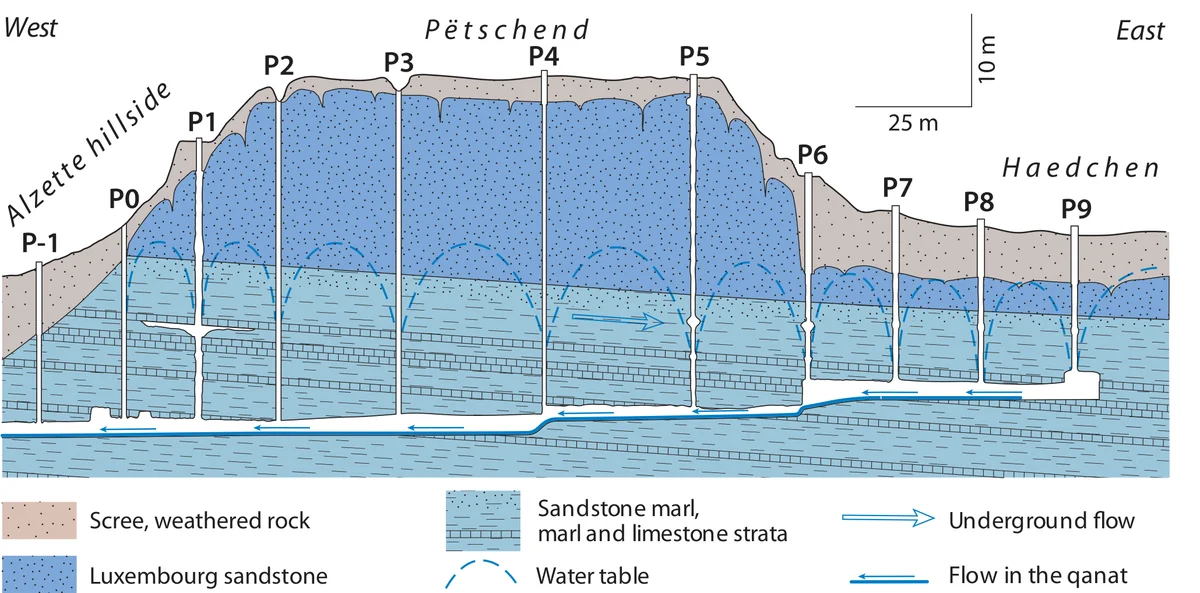
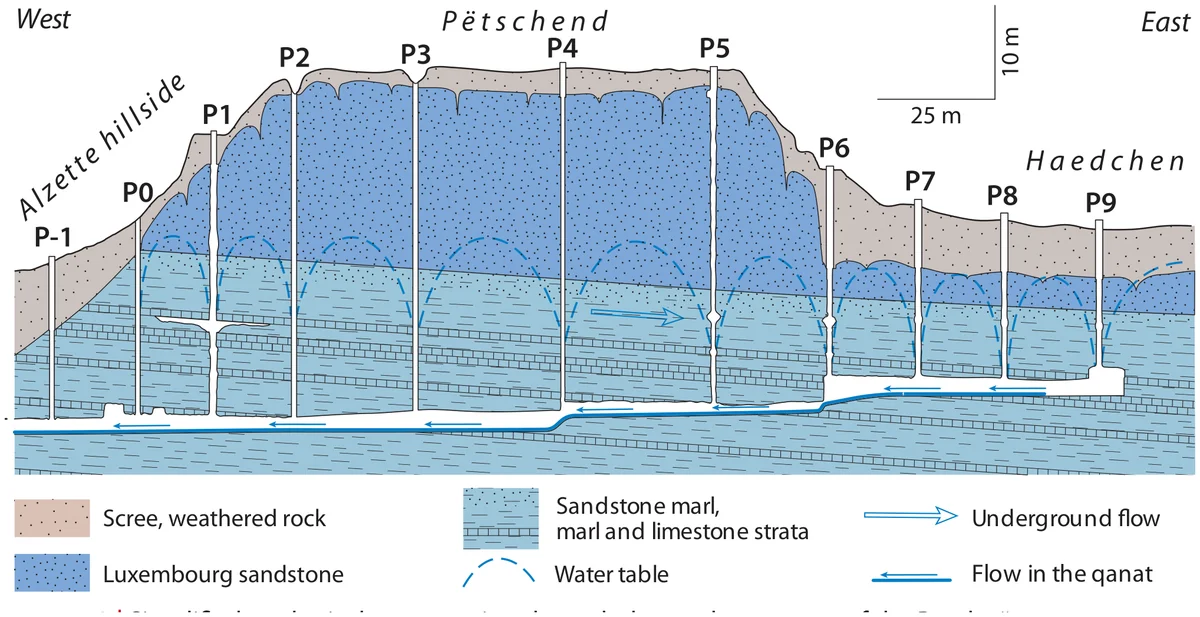
Rename source id to brochure2018; profile x-axis + shaft-set options; underground x-ray toggle
- Rename SSOT source id `waringo2018` → `brochure2018` (atomic across data/*.json,
  README, LFS README; validator is data-driven so referential integrity holds).
- Profile image: auto-trim surrounding whitespace (tighter crop, no credit sidebar).
- Profile modal: when the section image is ON, restrict the computed profile to the
  figure's shafts (P-1..P9) so they align. Add a profile-only "Spacing" selector —
  Georeferenced (LiDAR/OSM) vs Brochure schematic (fig 3-1 modelPos, normalised).
  It does NOT move the georeferenced 3D shafts. (Literal documentedDistances is only
  3 pairs, so it can't form a full axis; the schematic modelPos is the brochure's
  complete positional record.)
- "Underground structures" → "Underground x-ray (always on top)": redefine so the
  subsurface is ALWAYS built; the toggle now only chooses depthTest — ON = drawn
  atop the terrain at any opacity (x-ray); OFF = correctly occluded by the terrain
  in true z, revealed as terrain opacity drops. Caps stay as surface markers.

diff --git a/index.html b/index.html
@@ -97,6 +97,8 @@
         #profile-panel .pp-sub { color: #8a7a63; margin-bottom: 4px; }
         #profile-panel .pp-toggle { display: flex; align-items: center; gap: 6px; cursor: pointer;
             margin: 2px 0 6px; color: #4a3f2f; user-select: none; }
+        #profile-panel .pp-toggle select { font-size: 0.68rem; padding: 1px 3px; border-radius: 4px;
+            border: 1px solid rgba(0,0,0,0.2); background: #fff; color: #4a3f2f; }
         #profile-panel .pp-geoimg img { width: 100%; display: block; border-radius: 4px;
             border: 1px solid rgba(0,0,0,0.12); }
         #profile-panel .pp-credit { color: #9a8b73; font-size: 0.62rem; margin: 3px 0 8px; line-height: 1.3; }
@@ -512,7 +514,7 @@
         <div class="tab-pane" data-pane="qanat">
             <div class="control-group">
                 <label class="check-row"><input type="checkbox" id="param-geology" checked> Show&nbsp;geology&nbsp;(strata&nbsp;+&nbsp;water)</label>
-                <label class="check-row"><input type="checkbox" id="param-underground" checked> Underground&nbsp;structures</label>
+                <label class="check-row"><input type="checkbox" id="param-underground" checked> Underground&nbsp;x‑ray&nbsp;(always&nbsp;on&nbsp;top)</label>
                 <label class="check-row" id="row-aux"><input type="checkbox" id="param-aux"> Auxiliary&nbsp;dry&nbsp;channel&nbsp;(P‑7A/P‑5A)</label>
                 <label class="check-row" id="row-overflow"><input type="checkbox" id="param-overflow"> Overflow&nbsp;channel&nbsp;(P‑4)</label>
                 <label class="check-row" id="row-perched"><input type="checkbox" id="param-perched"> Perched&nbsp;water&nbsp;table&nbsp;+&nbsp;drawdown</label>
@@ -735,7 +737,7 @@
             year: 131,                    // timeline slider default: the qanat as freshly built (131 AD)
             showOverflow: false,          // P-4 overflow / lateral (deviation) channel (optional)
             showVilla: false,             // inferred recipient villa marker (optional)
-            showUnderground: true,        // qanat shafts + gallery + flow (subsurface structures)
+            xrayUnderground: true,        // subsurface structures always atop terrain (x-ray); off = occluded by terrain
             showSides: true,              // terrain block side walls
             showPaths: false,             // forest/hiking paths (OpenStreetMap)
             showAux: false,               // auxiliary dry channel (P-7A/P-5A), detached from main
@@ -1647,23 +1649,28 @@
             // ghost fill — so they're obviously shafts yet clearly distinct from the solid
             // ones. Their below-ground body is faded relative to the cap (fainter fill +
             // cage), giving inferred shafts the same bright-cap / faint-body gradient.
+            // "Underground x-ray" toggle: when ON (default) the subsurface structures render
+            // depthTest:false, so they always show ATOP the terrain even at full opacity. When
+            // OFF they use depthTest:true and are correctly occluded by the terrain, appearing
+            // only as terrain opacity drops (they still occupy their true z). The above-ground
+            // shaft CAPS are surface markers and stay x-ray regardless.
+            const ugDT = !params.xrayUnderground;   // depthTest value for below-ground structures
             // Realistic mode: clad the solid shafts in the sandstone PBR set (lit, so the
-            // normal/roughness show); otherwise the flat unlit x-ray overlay. depthTest/Write
-            // stay off either way so shafts keep reading through the terrain.
-            const mkShaftMat = op => params.pbr && TEX.color
+            // normal/roughness show); otherwise the flat unlit overlay.
+            const mkShaftMat = (op, dt = false) => params.pbr && TEX.color
                 ? new THREE.MeshStandardMaterial({ map: TEX.color, normalMap: TEX.normal,
                     roughnessMap: TEX.rough, roughness: 1.0, metalness: 0.0,
-                    depthTest: false, depthWrite: false, transparent: op < 0.999, opacity: op })
+                    depthTest: dt, depthWrite: false, transparent: op < 0.999, opacity: op })
                 : new THREE.MeshBasicMaterial({
-                    color: COL.shaft, depthTest: false, depthWrite: false, transparent: true, opacity: op });
-            const capSolidMat = mkShaftMat(1.0);
-            const belowFaintMat = mkShaftMat(0.4);
-            const ghostFillMat = mkShaftMat(0.12);        // inferred cap ghost fill
-            const ghostFillFaintMat = mkShaftMat(0.06);   // inferred below-ground ghost fill (faded)
-            const mkCageMat = op => new THREE.LineBasicMaterial({
-                color: COL.shaft, depthTest: false, depthWrite: false, transparent: true, opacity: op });
-            const cageMat = mkCageMat(0.95);              // inferred cap cage (crisp)
-            const cageFaintMat = mkCageMat(0.4);          // inferred below-ground cage (faded)
+                    color: COL.shaft, depthTest: dt, depthWrite: false, transparent: true, opacity: op });
+            const capSolidMat = mkShaftMat(1.0);          // above-ground cap: always x-ray
+            const belowFaintMat = mkShaftMat(0.4, ugDT);  // below-ground body: respects the toggle
+            const ghostFillMat = mkShaftMat(0.12);        // inferred cap ghost fill (x-ray)
+            const ghostFillFaintMat = mkShaftMat(0.06, ugDT); // inferred below-ground ghost fill
+            const mkCageMat = (op, dt = false) => new THREE.LineBasicMaterial({
+                color: COL.shaft, depthTest: dt, depthWrite: false, transparent: true, opacity: op });
+            const cageMat = mkCageMat(0.95);              // inferred cap cage (crisp, x-ray)
+            const cageFaintMat = mkCageMat(0.4, ugDT);    // inferred below-ground cage
             const surf = pillarDefs.map(p => getTerrainHeight(p.x, p.z));
 
             // P-5A & P-7A form a separate, higher "auxiliary" dry channel (from SSOT roles).
@@ -1731,10 +1738,11 @@
                         modelGroup.add(cage);
                     }
                 };
-                // Above-ground cap is ALWAYS shown (surface marker, even with underground off);
-                // the below-ground body only when subsurface structures are enabled.
+                // Both the above-ground cap (surface marker) and the below-ground body are
+                // ALWAYS built now; the "Underground x-ray" toggle only sets whether the body
+                // is drawn atop the terrain (x-ray) or occluded by it (see ugDT above).
                 addSeg(CAP, sy + CAP / 2, 'cap');
-                if (params.showUnderground) addSeg(len, sy - len / 2, 'body');
+                addSeg(len, sy - len / 2, 'body');
                 const lbl = createTextSprite(p.id, '#1a1a1a', 24);
                 lbl.position.set(p.x, sy + CAP + 0.5, p.z);
                 modelGroup.add(lbl);
@@ -1755,10 +1763,10 @@
                 let mat;
                 if (params.pbr && TEX.water) {
                     mat = new THREE.MeshStandardMaterial({ color: 0x2f6fae, normalMap: TEX.water,
-                        roughness: 0.16, metalness: 0.2, transparent: true, opacity: 0.92, depthTest: false });
+                        roughness: 0.16, metalness: 0.2, transparent: true, opacity: 0.92, depthTest: ugDT });
                     waterMats.push(mat);
                 } else {
-                    mat = new THREE.MeshBasicMaterial({ color, depthTest: false });
+                    mat = new THREE.MeshBasicMaterial({ color, depthTest: ugDT });
                 }
                 const mm = new THREE.Mesh(g, mat);
                 mm.renderOrder = 5; modelGroup.add(mm);
@@ -1772,7 +1780,7 @@
                 const SAMPLES = Math.max(60, points.length * 24);
                 const pts = cv.getPoints(SAMPLES);
                 const DASH = 7, GAP = 5;                      // samples per dash / gap
-                const mat = new THREE.MeshBasicMaterial({ color, depthTest: false });
+                const mat = new THREE.MeshBasicMaterial({ color, depthTest: ugDT });
                 for (let i = 0; i < pts.length - 1; i += DASH + GAP) {
                     const seg = pts.slice(i, Math.min(pts.length, i + DASH + 1));
                     if (seg.length < 2) continue;
@@ -1785,7 +1793,7 @@
                 if (points.length < 2) return;
                 const cv = new THREE.CatmullRomCurve3(points);
                 const g = new THREE.TubeGeometry(cv, Math.max(24, points.length * 16), radius, 8, false);
-                const mm = new THREE.Mesh(g, new THREE.MeshBasicMaterial({ color, depthTest: false }));
+                const mm = new THREE.Mesh(g, new THREE.MeshBasicMaterial({ color, depthTest: ugDT }));
                 mm.renderOrder = 5; modelGroup.add(mm);
             }
             // The gallery + channel exist only once the qanat is built (≥131 AD).
@@ -1794,7 +1802,7 @@
             // The qanat is always drawn blue — water still runs in the gallery today, so its
             // colour does not change with the timeline (only its existence does).
             const galleryColor = COL.qanat;
-            if (galleryBuilt && params.showUnderground) {
+            if (galleryBuilt) {
                 const n = basePts.length;
                 const exC = Math.max(2, Math.round(n * QANAT.exploredFrac));
                 const start = Math.floor((n - exC) / 2), end = start + exC;
@@ -1834,18 +1842,18 @@
 
             // Gallery flow arrows only while the qanat is carrying water (Roman service,
             // 140–350); once dormant/dry the gallery is silted so no flow is shown.
-            if (inService && params.showGeology && params.showUnderground) {
+            if (inService && params.showGeology) {
                 for (let i = basePts.length - 2; i >= 1; i -= 2) {
                     flowArrow(basePts[i].x, basePts[i].y + 0.05, basePts[i].z, -1, COL.qanat, 0.9);
                 }
             }
-            lastQanatPts = (inService && params.showUnderground) ? basePts : [];   // animated flow: in-service only
+            lastQanatPts = inService ? basePts : [];   // animated flow: in-service only
 
             // Overflow / lateral (deviation) channel at the P-4 weir (optional; SSOT-driven).
             // Ø80 cm branch that carries surplus (~80 m³/d) away when the main channel dams
             // above ~12 cm. The brochure gives no surveyed plan geometry (fig 5-11/5-14), so
             // the route here is a SCHEMATIC short lateral drain — labelled as reconstructed.
-            if (params.showOverflow && galleryBuilt && params.showUnderground) {
+            if (params.showOverflow && galleryBuilt) {
                 const oc = SSOT.gallery.gallery.overflowChannel;
                 const bp = oc && shaftBaseById[oc.atShaft];
                 if (bp) {
@@ -2470,12 +2478,11 @@
             syncBaseLayerUI();   // initial state (contours by default → slider shown)
 
             // Only expose options that do something in the current state: the geology
-            // overlays (perched table / horst faults) need "Show geology"; the subsurface
-            // conduits (aux / overflow) need "Underground structures".
+            // overlays (perched table / horst faults) need "Show geology". The subsurface
+            // conduits (aux / overflow) are always available now that underground structures
+            // are always built (the x-ray toggle only changes how they're drawn).
             const syncConditionalOptions = () => {
-                const u = params.showUnderground, g = params.showGeology;
-                document.getElementById('row-aux').style.display = u ? '' : 'none';
-                document.getElementById('row-overflow').style.display = u ? '' : 'none';
+                const g = params.showGeology;
                 document.getElementById('row-perched').style.display = g ? '' : 'none';
                 document.getElementById('row-faults').style.display = g ? '' : 'none';
             };
@@ -2551,8 +2558,7 @@
 
             // Toggle subsurface qanat structures (shafts + gallery + flow + overflow)
             document.getElementById('param-underground').addEventListener('change', e => {
-                params.showUnderground = e.target.checked;
-                syncConditionalOptions();
+                params.xrayUnderground = e.target.checked;
                 buildParametricModel();
             });
 
@@ -3420,25 +3426,40 @@
         // --- Gallery longitudinal-profile chart (toggle) ---------------------
         let profileOn = false;
         let profileImgOn = false;   // show the Brochure geological cross-section (fig 4-2) in the modal
-        // Separate in-modal toggle: reveal/hide the original geological section for comparison
-        // against our derived longitudinal profile. Image used with the rights holders' clearance.
-        function toggleProfileImg(cb) {
-            profileImgOn = cb.checked;
-            const d = document.getElementById('pp-geoimg');
-            if (d) d.style.display = profileImgOn ? 'block' : 'none';
+        let profileXMode = 'geo';   // 'geo' = georeferenced (LiDAR/OSM) | 'schematic' = Brochure fig 3-1 layout
+        // Shafts drawn in Brochure fig 4-2 (W→E). When the section image is shown we restrict the
+        // computed profile to this set so the two align (P-5/P-4 and the aux drop-shafts aren't in it).
+        const FIGURE_SHAFTS = ['P-1', 'P0', 'P1', 'P2', 'P3', 'P4', 'P5', 'P6', 'P7', 'P8', 'P9'];
+        function rebuildProfilePanel() {
+            const el = document.getElementById('profile-panel');
+            if (el && profileOn) el.innerHTML = buildProfileSVG();
         }
+        // Toggling the section image also re-selects the shaft set → rebuild the whole panel.
+        function toggleProfileImg(cb) { profileImgOn = cb.checked; rebuildProfilePanel(); }
+        // X-axis basis is PROFILE-ONLY; it never moves the georeferenced 3D shafts.
+        function setProfileXMode(sel) { profileXMode = sel.value; rebuildProfilePanel(); }
         function buildProfileSVG() {
-            // georeferenced main-line shafts, W->E; true elevations (masl)
-            const shs = SHAFTS.filter(s => s.geo && s.role !== 'auxiliary')
-                .sort((a, b) => a.geo.lon - b.geo.lon);
+            const schematic = profileXMode === 'schematic';
+            // Main-line shafts; restrict to the figure's set when comparing against the image.
+            let shs = SHAFTS.filter(s => s.geo && s.role !== 'auxiliary');
+            if (profileImgOn) shs = shs.filter(s => FIGURE_SHAFTS.includes(s.id));
+            shs = shs.slice().sort((a, b) => schematic
+                ? ((a.modelPos?.x ?? 0) - (b.modelPos?.x ?? 0)) : (a.geo.lon - b.geo.lon));
             if (shs.length < 2) return '<div class="pp-sub">Profile needs georeferenced shafts.</div>';
             const mPerDegLon = 111320 * Math.cos(GEO_BBOX.south * Math.PI / 180);
-            const lon0 = shs[0].geo.lon;
+            const lons = shs.map(s => s.geo.lon), lonMin = Math.min(...lons);
+            const geoSpan = (Math.max(...lons) - lonMin) * mPerDegLon || 1;
+            const mxs = shs.map(s => s.modelPos?.x ?? 0), mxMin = Math.min(...mxs);
+            const mxSpan = (Math.max(...mxs) - mxMin) || 1;
+            // Schematic mode: Brochure fig 3-1 modelPos spacing, normalised to the same total
+            // width as the georeferenced span, so only the INTERNAL spacing differs.
             const pts = shs.map(s => {
                 const sc = geoToScene(s.geo.lat, s.geo.lon);
                 const surf = surfaceMeters(getTerrainHeight(sc.x, sc.z));
                 const floor = (s.floorElevM != null) ? s.floorElevM : floorMaslAtLon(s.geo.lon);
-                return { id: s.id, dist: (s.geo.lon - lon0) * mPerDegLon, surf, floor };
+                const dist = schematic ? ((s.modelPos?.x ?? 0) - mxMin) / mxSpan * geoSpan
+                                       : (s.geo.lon - lonMin) * mPerDegLon;
+                return { id: s.id, dist, surf, floor };
             });
             const W = 540, H = 200, mL = 40, mR = 12, mT = 26, mB = 26;
             const maxD = pts[pts.length - 1].dist;
@@ -3472,17 +3493,24 @@
             const fall = (pts[pts.length - 1].floor - pts[0].floor);
             // Separate toggle + the original geological cross-section (Brochure fig 4-2), for
             // side-by-side comparison with our derived profile. Both run W→E through P-1..P9.
-            const geoBlock =
+            const controls =
                 `<label class="pp-toggle"><input type="checkbox" onchange="toggleProfileImg(this)"` +
                     `${profileImgOn ? ' checked' : ''}> Geological section (Brochure fig&nbsp;4‑2)</label>` +
+                `<label class="pp-toggle">Spacing:&nbsp;<select onchange="setProfileXMode(this)">` +
+                    `<option value="geo"${!schematic ? ' selected' : ''}>Georeferenced (LiDAR)</option>` +
+                    `<option value="schematic"${schematic ? ' selected' : ''}>Brochure schematic (fig&nbsp;3‑1)</option>` +
+                `</select></label>` +
                 `<div class="pp-geoimg" id="pp-geoimg" style="display:${profileImgOn ? 'block' : 'none'}">` +
                     `<img src="assets/geo-section-brochure.webp" alt="Simplified geological cross-section through the Raschpëtzer catchment (Brochure 2018, fig 4-2)">` +
                     `<div class="pp-credit">© R. Maquil / S. Faber / H. Werner / R. Colbach · Brochure 2018, fig 4‑2 · used with permission</div>` +
                 `</div>`;
+            const basis = schematic
+                ? `x = Brochure fig 3‑1 schematic spacing (normalised); georeferenced shafts unchanged in 3D`
+                : `x = georeferenced W→E distance (OSM/LiDAR)`;
             return `<div class="pp-title">Gallery longitudinal profile — true elevation (m a.s.l.)</div>` +
-                   geoBlock +
+                   controls +
                    `<div class="pp-sub">Blue = near-level gallery floor · brown = LiDAR surface · gap = shaft depth. ` +
-                   `Floor rises ${fall.toFixed(1)} m W→E over ${Math.round(maxD)} m (0.1% grade + P4/P6 steps).</div>` + svg;
+                   `Floor rises ${fall.toFixed(1)} m W→E over ${Math.round(maxD)} m (0.1% grade + P4/P6 steps). ${basis}.</div>` + svg;
         }
         function toggleProfile() {
             profileOn = !profileOn;

diff --git a/sources/primary/README.md b/sources/primary/README.md
@@ -2,7 +2,7 @@
 
 Original primary-source documents for the Raschpëtzer qanat model, stored via
 **Git LFS** (see `/.gitattributes`). These back the citations in
-`data/sources.json` (`waringo2018`, its figures, and the SIT leaflet).
+`data/sources.json` (`brochure2018`, its figures, and the SIT leaflet).
 
 | File | Description |
 |------|-------------|